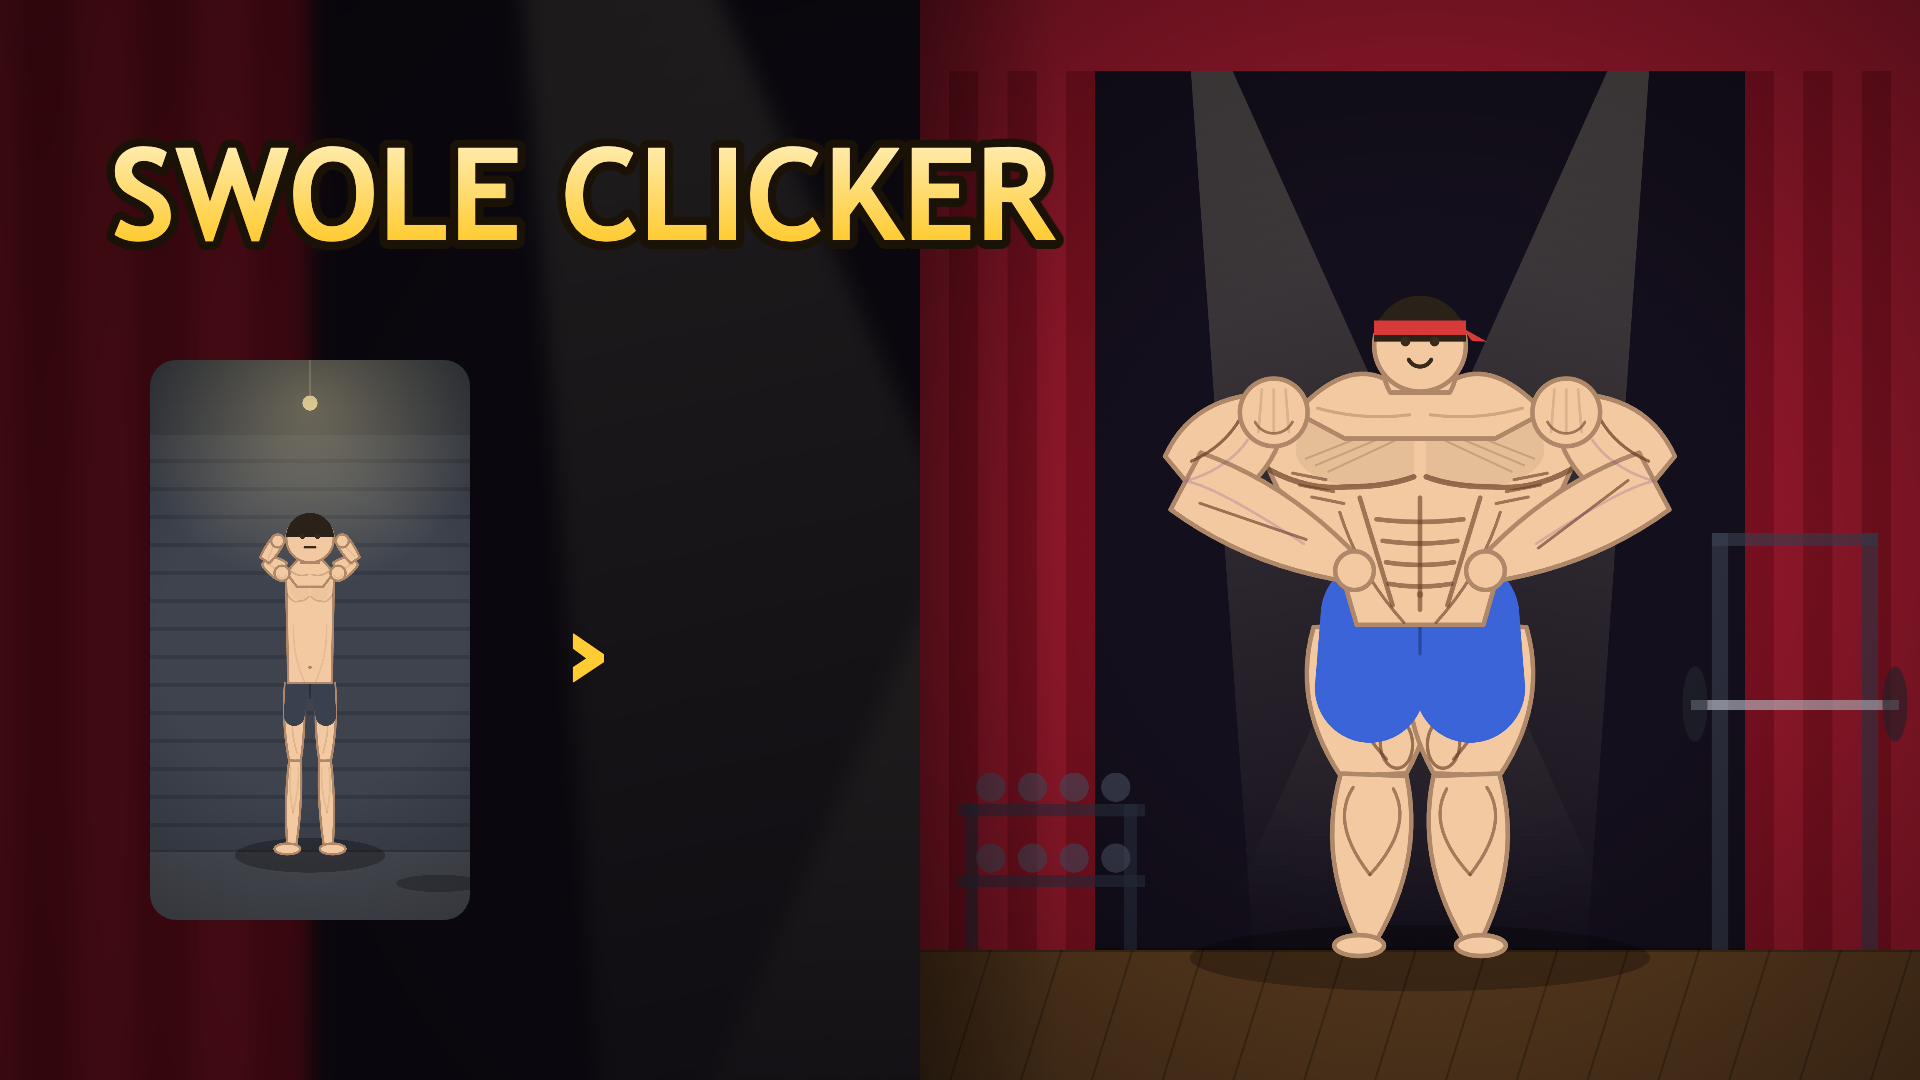
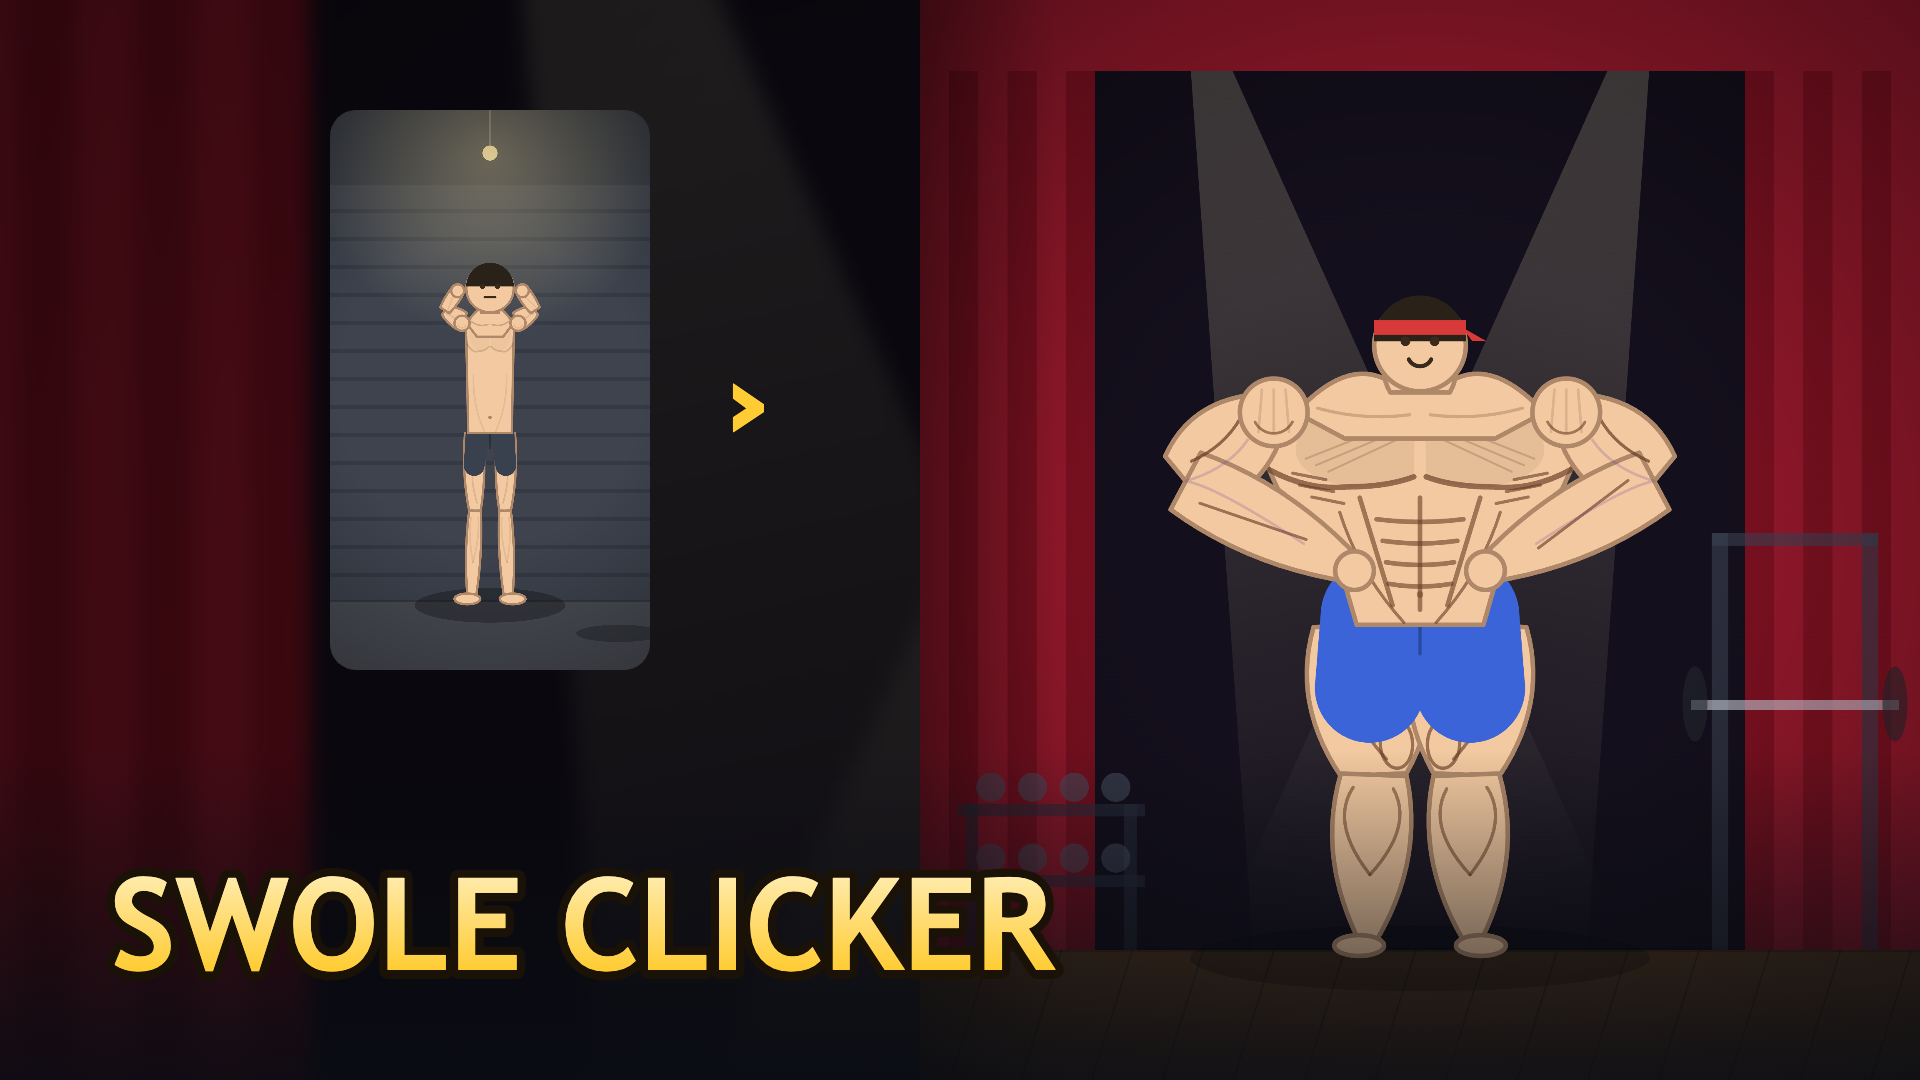
CrazyGames covers: move title out of the top-left label area

Changed region(s): [[0.0, 0.0917, 1.0, 1.0], [0.375, 0.3667, 0.4062, 0.3972]]

diff --git a/tools/preview.html b/tools/preview.html
@@ -78,12 +78,13 @@ async function main(){
     g.save(); g.filter='blur(10px) brightness(.5)'; coverDraw(g,bigBeast.bg,-40,-40,w+80,h+80,.5,.4); g.restore();     // the empty stage, softened
     put(g,bigBeast,w-1000,0,1000,1083);                                                                                // full-height lifter on the stage
     const sh=g.createLinearGradient(w-1000,0,w-860,0); sh.addColorStop(0,'rgba(0,0,0,.35)'); sh.addColorStop(1,'rgba(0,0,0,0)'); g.fillStyle=sh; g.fillRect(w-1000,0,140,h);
-    g.save(); g.beginPath(); g.roundRect(150,360,320,560,26); g.clip(); coverDraw(g,bigNoodle,150,360,320,560,.5,.62); g.restore();
-    g.fillStyle='#ffcc33'; g.font=`bold 150px ${FONT}`; g.fillText('›',560,700);
-    title(g,110,240,128); });
+    g.save(); g.beginPath(); g.roundRect(330,110,320,560,26); g.clip(); coverDraw(g,bigNoodle,330,110,320,560,.5,.62); g.restore();
+    g.fillStyle='#ffcc33'; g.font=`bold 150px ${FONT}`; g.fillText('›',720,450);
+    const bl=g.createLinearGradient(0,h-330,0,h); bl.addColorStop(0,'rgba(10,13,20,0)'); bl.addColorStop(1,'rgba(10,13,20,.85)'); g.fillStyle=bl; g.fillRect(0,h-330,w,330);
+    title(g,110,h-110,128); });
   const cgP=coverOf(800,1200,(g,w,h)=>{ coverDraw(g,bigBeast,0,0,w,h,.5,.5);
-    const sh=g.createLinearGradient(0,0,0,330); sh.addColorStop(0,'rgba(10,13,20,.88)'); sh.addColorStop(1,'rgba(10,13,20,0)'); g.fillStyle=sh; g.fillRect(0,0,w,330);
-    title(g,400,170,92,'center'); });
+    const sh=g.createLinearGradient(0,h-300,0,h); sh.addColorStop(0,'rgba(10,13,20,0)'); sh.addColorStop(1,'rgba(10,13,20,.9)'); g.fillStyle=sh; g.fillRect(0,h-300,w,300);
+    title(g,400,h-60,92,'center'); });
   const cgS=coverOf(800,800,(g,w,h)=>{ coverDraw(g,bigDungeon,0,0,w,h,.5,.35);
     const sh=g.createLinearGradient(0,h-250,0,h); sh.addColorStop(0,'rgba(10,13,20,0)'); sh.addColorStop(1,'rgba(10,13,20,.95)'); g.fillStyle=sh; g.fillRect(0,h-250,w,250);
     title(g,400,h-60,90,'center'); });
